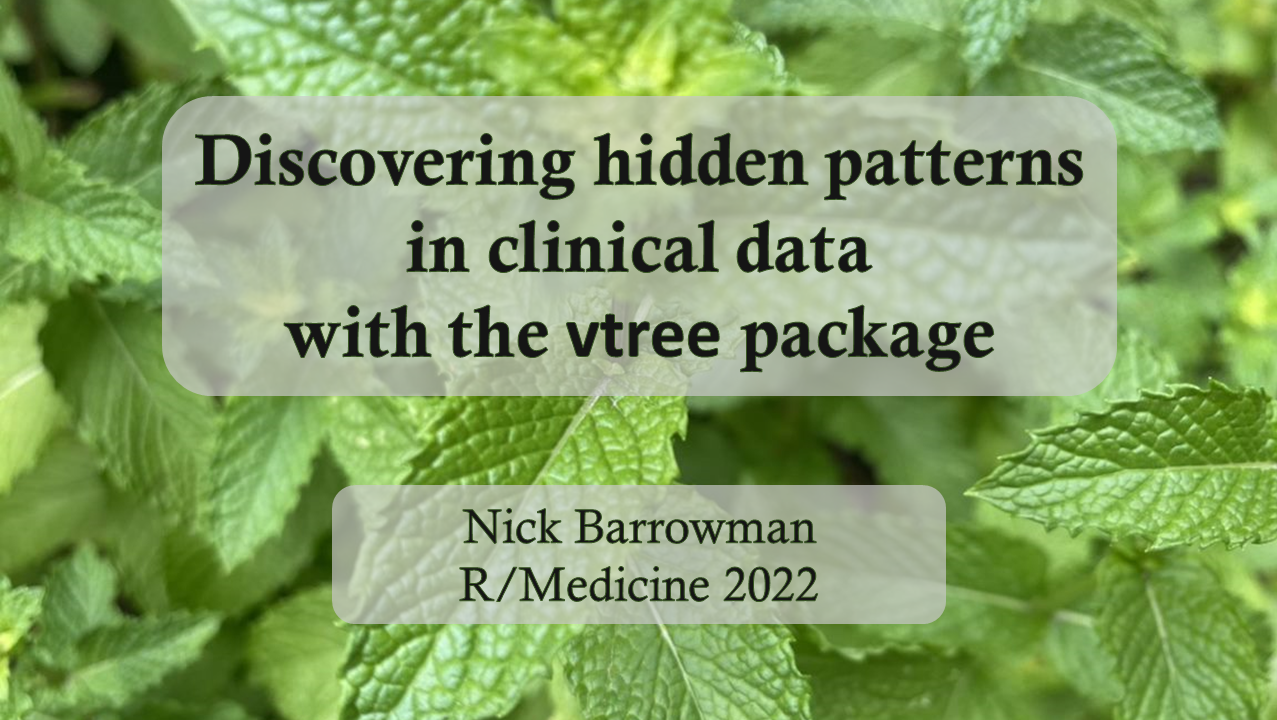
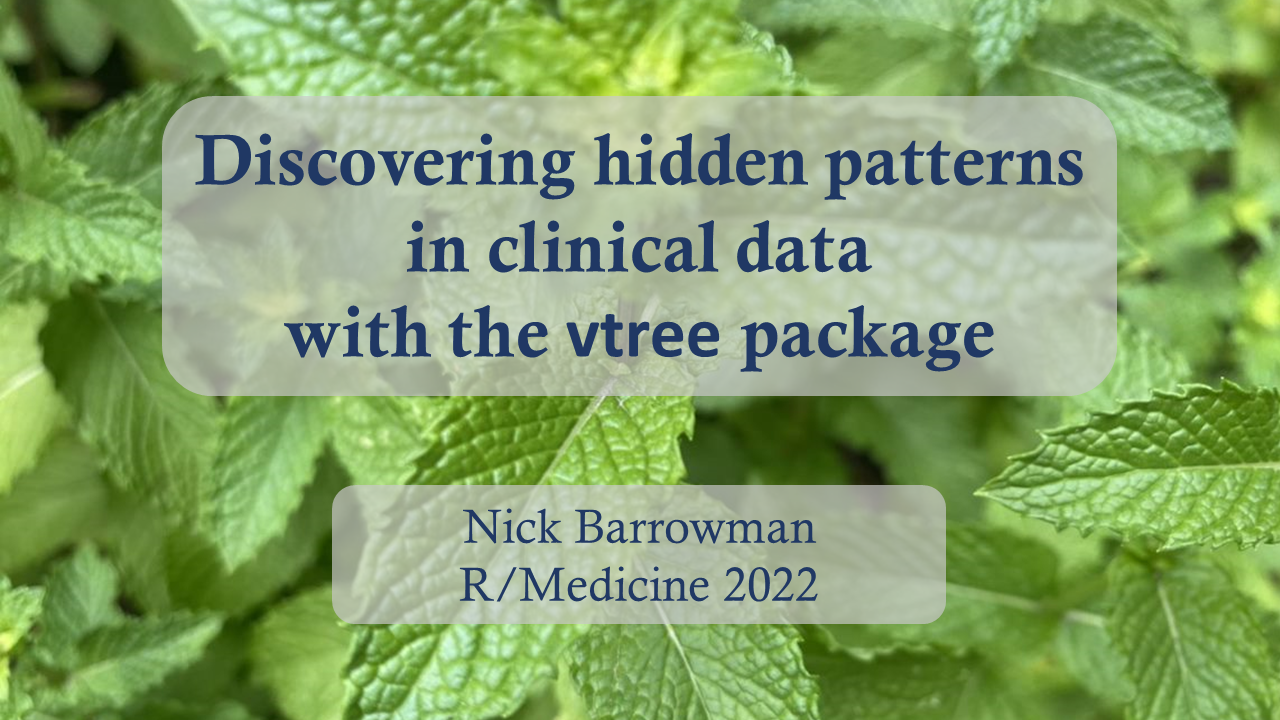
Latest improvements

diff --git a/styles.css b/styles.css
@@ -23,6 +23,7 @@ blockquote {
 
 
 h1 {
+    margin-top: 20pt;
     font-size: 36pt !important;
     color: darkblue;
 }
@@ -33,15 +34,16 @@ h2 {
 }
 
 h5 {
-    font-size: 24pt !important;
-    color: #0020C2;
+    margin-top: 12pt;
+    font-size: 28pt !important;
+    color: #2554C7;
     text-align: center;
 }
 
 h6 {
     margin-top: 48pt;
     font-size: 48pt !important;
-    color: #0020C2;
+    color: #2554C7;
     text-align: center;
 }
 
